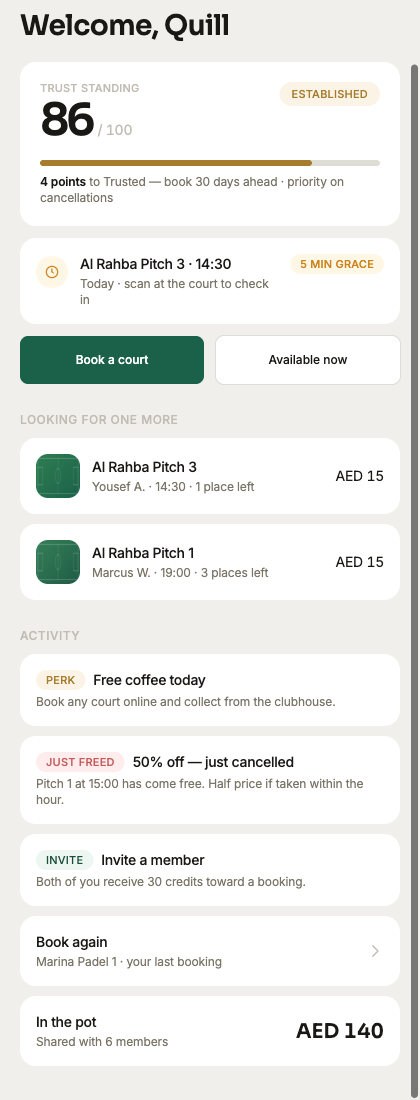
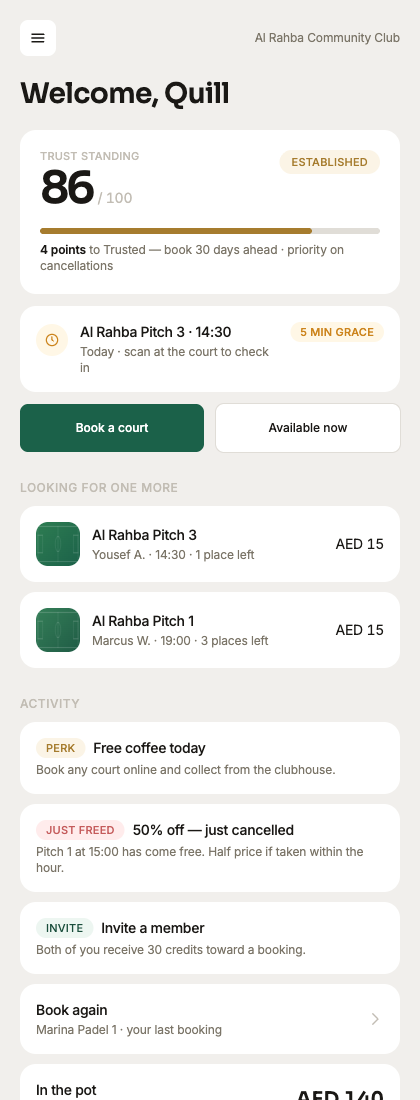
Fix the court detail screen
Two faults. Each court had a single slot in the data, so the time picker
offered one option and read as broken. Every court now has a day's worth,
including a couple marked unavailable so the 'only bookable slots are shown'
rule is visible rather than asserted.

The price and Continue were inside a container with no bounded height, so
mt-auto had nothing to resolve against and the footer collapsed upward out of
view. The content column now scrolls and the footer is pinned to the fold,
showing the chosen slot alongside the price.

Screen takes an opt-in  prop for this — a fixed height clips screens
that are meant to grow, which it did to home until caught.

diff --git a/lib/mock-data.ts b/lib/mock-data.ts
@@ -64,14 +64,46 @@ export const courts: Court[] = [
   },
 ]
 
+/**
+ * A day's slots per court. Only `available: true` rows are offered — the
+ * browse list never shows a greyed-out slot, because a slot you cannot book
+ * is not information, it is noise.
+ */
 export const slots: Slot[] = [
+  // Al Rahba Pitch 3 — football
   { id: "s1", courtId: "pitch-3", date: "2026-12-14", start: "14:30", end: "15:30", available: true },
-  { id: "s2", courtId: "pitch-1", date: "2026-12-14", start: "15:00", end: "16:00", available: true, discountPct: 50 },
-  { id: "s3", courtId: "padel-1", date: "2026-12-14", start: "16:00", end: "17:00", available: true },
-  { id: "s4", courtId: "padel-2", date: "2026-12-14", start: "17:30", end: "18:30", available: true },
-  { id: "s5", courtId: "tennis-2", date: "2026-12-14", start: "18:00", end: "19:00", available: true },
-  { id: "s6", courtId: "badminton-4", date: "2026-12-14", start: "19:00", end: "20:00", available: true },
+  { id: "s1b", courtId: "pitch-3", date: "2026-12-14", start: "16:00", end: "17:00", available: true },
+  { id: "s1c", courtId: "pitch-3", date: "2026-12-14", start: "17:00", end: "18:00", available: false },
+  { id: "s1d", courtId: "pitch-3", date: "2026-12-14", start: "18:30", end: "19:30", available: true },
   { id: "s7", courtId: "pitch-3", date: "2026-12-14", start: "20:00", end: "21:00", available: true },
+
+  // Al Rahba Pitch 1 — football
+  { id: "s2", courtId: "pitch-1", date: "2026-12-14", start: "15:00", end: "16:00", available: true, discountPct: 50 },
+  { id: "s2b", courtId: "pitch-1", date: "2026-12-14", start: "17:30", end: "18:30", available: true },
+  { id: "s2c", courtId: "pitch-1", date: "2026-12-14", start: "19:00", end: "20:00", available: true },
+  { id: "s2d", courtId: "pitch-1", date: "2026-12-14", start: "20:30", end: "21:30", available: true },
+
+  // Marina Padel 1
+  { id: "s3", courtId: "padel-1", date: "2026-12-14", start: "16:00", end: "17:00", available: true },
+  { id: "s3b", courtId: "padel-1", date: "2026-12-14", start: "17:00", end: "18:00", available: true },
+  { id: "s3c", courtId: "padel-1", date: "2026-12-14", start: "18:00", end: "19:00", available: false },
+  { id: "s3d", courtId: "padel-1", date: "2026-12-14", start: "19:00", end: "20:00", available: true },
+  { id: "s3e", courtId: "padel-1", date: "2026-12-14", start: "20:00", end: "21:00", available: true },
+  { id: "s3f", courtId: "padel-1", date: "2026-12-14", start: "21:00", end: "22:00", available: true },
+
+  // Marina Padel 2
+  { id: "s4", courtId: "padel-2", date: "2026-12-14", start: "17:30", end: "18:30", available: true },
+  { id: "s4b", courtId: "padel-2", date: "2026-12-14", start: "19:30", end: "20:30", available: true },
+  { id: "s4c", courtId: "padel-2", date: "2026-12-14", start: "21:00", end: "22:00", available: true },
+
+  // Corniche Court 2 — tennis
+  { id: "s5", courtId: "tennis-2", date: "2026-12-14", start: "18:00", end: "19:00", available: true },
+  { id: "s5b", courtId: "tennis-2", date: "2026-12-14", start: "19:00", end: "20:00", available: true },
+  { id: "s5c", courtId: "tennis-2", date: "2026-12-14", start: "20:00", end: "21:00", available: true },
+
+  // Community Hall 4 — badminton
+  { id: "s6", courtId: "badminton-4", date: "2026-12-14", start: "19:00", end: "20:00", available: true },
+  { id: "s6b", courtId: "badminton-4", date: "2026-12-14", start: "20:00", end: "21:00", available: true },
 ]
 
 /**

diff --git a/components/app-screens.tsx b/components/app-screens.tsx
@@ -304,10 +304,11 @@ export function CourtDetail({ courtId, go }: { courtId: string; go: (v: AppView)
   const court = courtById(courtId)!
   const courtSlots = slots.filter((s) => s.courtId === courtId && s.available)
   const [picked, setPicked] = useState(courtSlots[0]?.id)
+  const chosen = courtSlots.find((s) => s.id === picked)
 
   return (
-    <Screen pad={false}>
-      <div className="relative">
+    <Screen pad={false} fill>
+      <div className="relative shrink-0">
         <CourtImage kind={court.image} height={220} sport={court.sport} />
         <div className="absolute left-5 top-4">
           <button type="button" onClick={() => go({ name: "browse" })} aria-label="Back" className="flex h-9 w-9 items-center justify-center rounded-[var(--radius-field)]" style={{ background: COLOR.surface, color: COLOR.text }}>
@@ -318,7 +319,7 @@ export function CourtDetail({ courtId, go }: { courtId: string; go: (v: AppView)
         </div>
       </div>
 
-      <div className="flex flex-1 flex-col gap-5 px-5 pb-8 pt-5">
+      <div className="flex min-h-0 flex-1 flex-col gap-5 overflow-y-auto px-5 pb-5 pt-5">
         <div className="flex flex-col gap-1.5">
           <span className="flex items-center gap-2">
             <Pill tone="brand">{court.sport}</Pill>
@@ -361,17 +362,28 @@ export function CourtDetail({ courtId, go }: { courtId: string; go: (v: AppView)
           </div>
         </div>
 
-        <div className="mt-auto flex flex-col gap-3">
-          <div className="flex items-center justify-between">
-            <span className={TYPE.meta} style={{ color: COLOR.muted }}>1 hour</span>
-            <span className="numeric" style={{ fontFamily: "var(--font-family-display)", fontWeight: 600, fontSize: 22, color: COLOR.text }}>
-              {money(court.pricePerHour)}
-            </span>
-          </div>
-          <Button onClick={() => picked && go({ name: "confirm", courtId, slotId: picked })}>
-            Continue
-          </Button>
+      </div>
+
+      {/* The action sits on the fold, not at the end of the content — the
+          price and CTA are visible whatever the court's slot count. */}
+      <div
+        className="flex shrink-0 flex-col gap-3 px-5 pb-6 pt-4"
+        style={{ background: COLOR.surface, borderTop: `1px solid ${COLOR.hairline}` }}
+      >
+        <div className="flex items-center justify-between">
+          <span className={TYPE.meta} style={{ color: COLOR.muted }}>
+            {chosen ? `${chosen.start}–${chosen.end} · 1 hour` : "Select a time"}
+          </span>
+          <span className="numeric" style={{ fontFamily: "var(--font-family-display)", fontWeight: 600, fontSize: 22, color: COLOR.text }}>
+            {money(court.pricePerHour)}
+          </span>
         </div>
+        <Button
+          disabled={!picked}
+          onClick={() => picked && go({ name: "confirm", courtId, slotId: picked })}
+        >
+          Continue
+        </Button>
       </div>
     </Screen>
   )

diff --git a/components/ui.tsx b/components/ui.tsx
@@ -10,14 +10,24 @@ import { COLOR, TYPE } from "@/components/mid-fidelity"
 export function Screen({
   children,
   pad = true,
+  fill = false,
 }: {
   children: React.ReactNode
   pad?: boolean
+  /** Pin to the viewport height, for screens with a footer on the fold. */
+  fill?: boolean
 }) {
   return (
     <div
       className={`mx-auto flex w-full max-w-[420px] flex-col ${pad ? "px-5" : ""}`}
-      style={{ minHeight: "100dvh", background: COLOR.canvas }}
+      style={{
+        minHeight: "100dvh",
+        /* `fill` pins the screen to the viewport so a footer can sit on the
+           fold. Without it the screen grows and the page scrolls — which is
+           what a long list wants. */
+        ...(fill ? { height: "100dvh" } : null),
+        background: COLOR.canvas,
+      }}
     >
       {children}
     </div>
